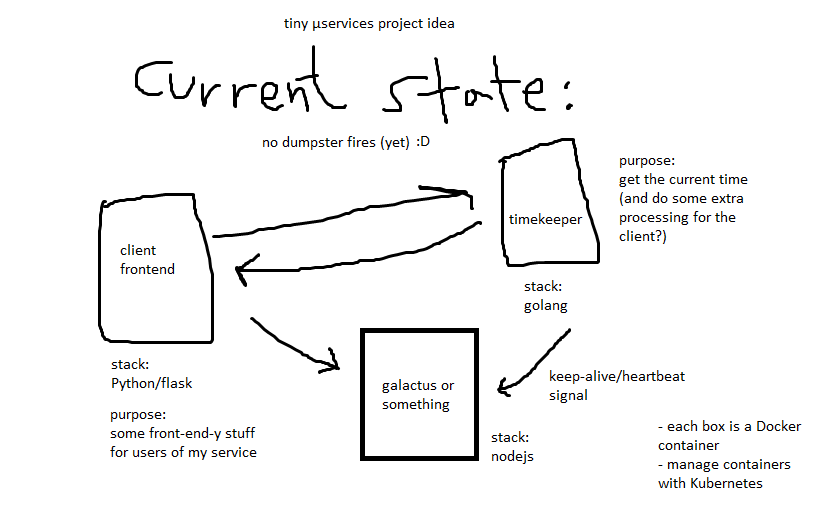
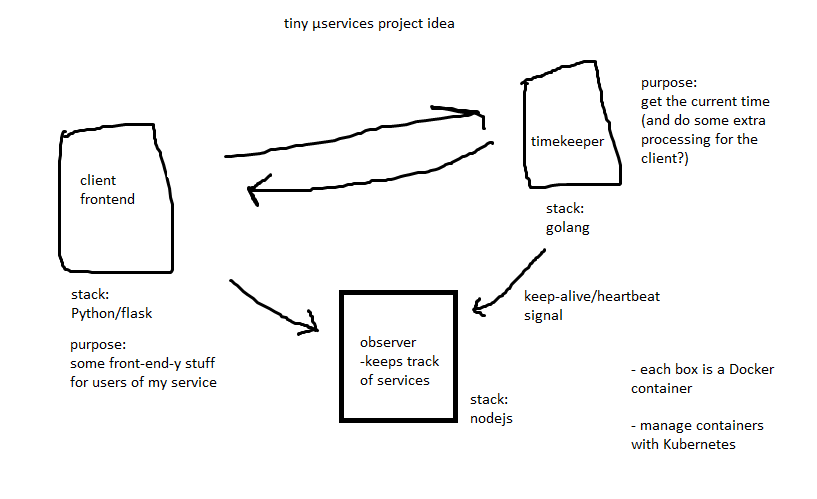
this is hard

diff --git a/readme.md b/readme.md
@@ -1,3 +1,8 @@
 # mu-services    
-exploring microservices with Docker, a bunch of languages and k8s (eventually)    
+exploring microservices with Docker, a bunch of languages and k8s    
     
+currently just a playground with no real direction or good organization :)    
+the Docker images of each application should work out-of-the-box at least though (after you build them).    
+    
+see my intended idea below:    
+![picture of my idea](idea.png)
